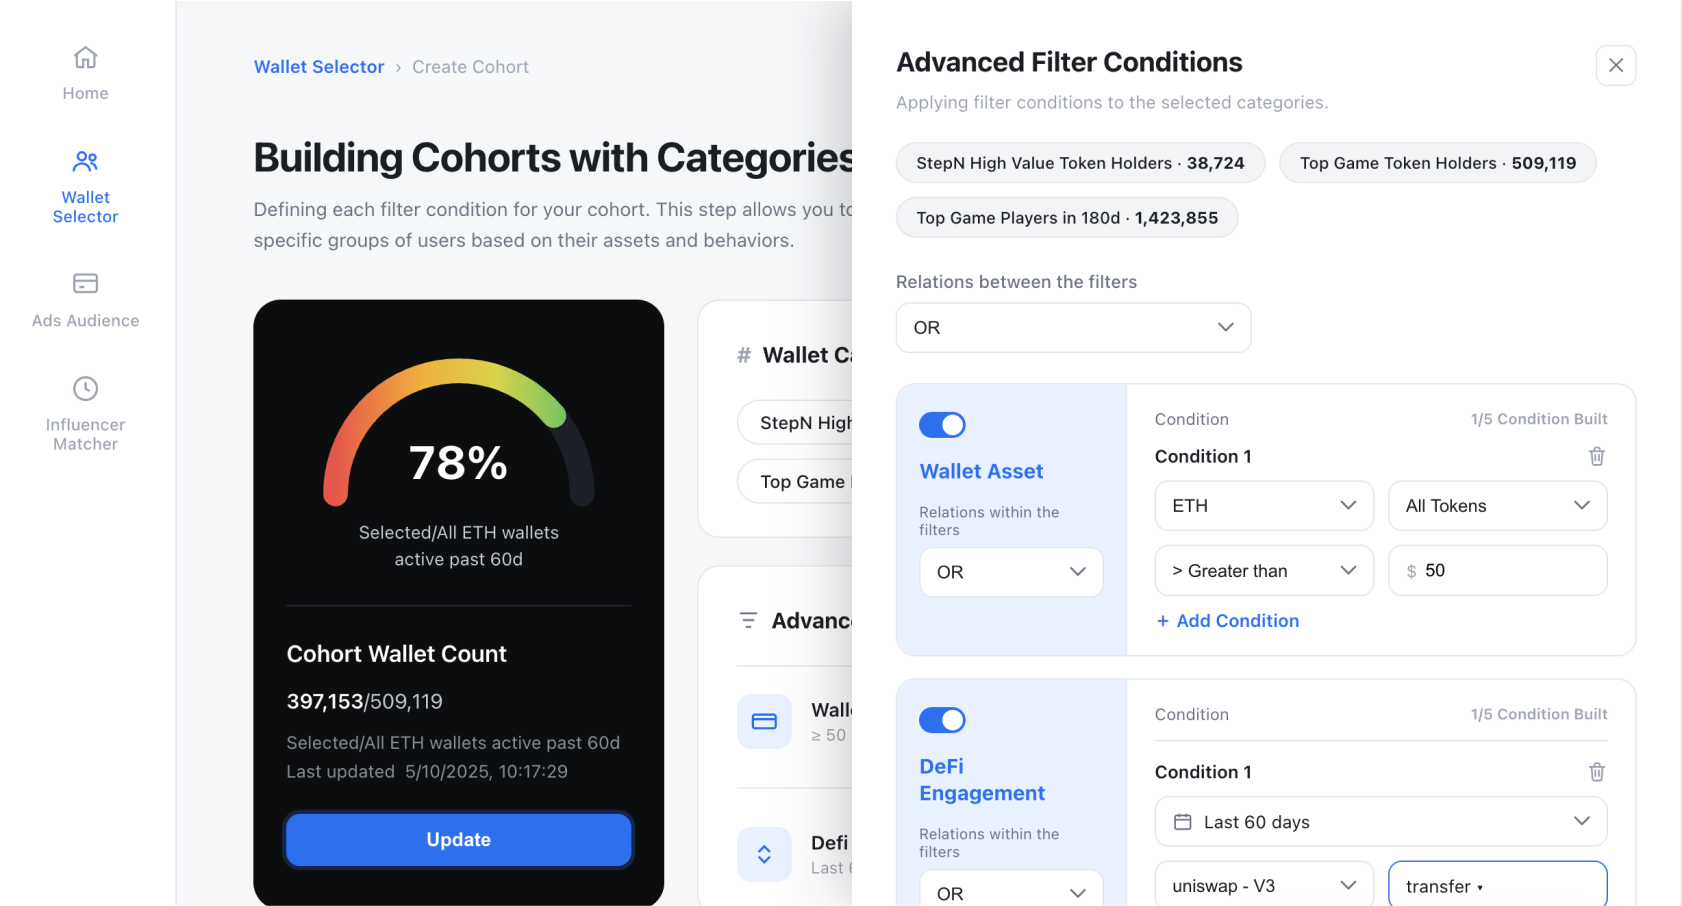
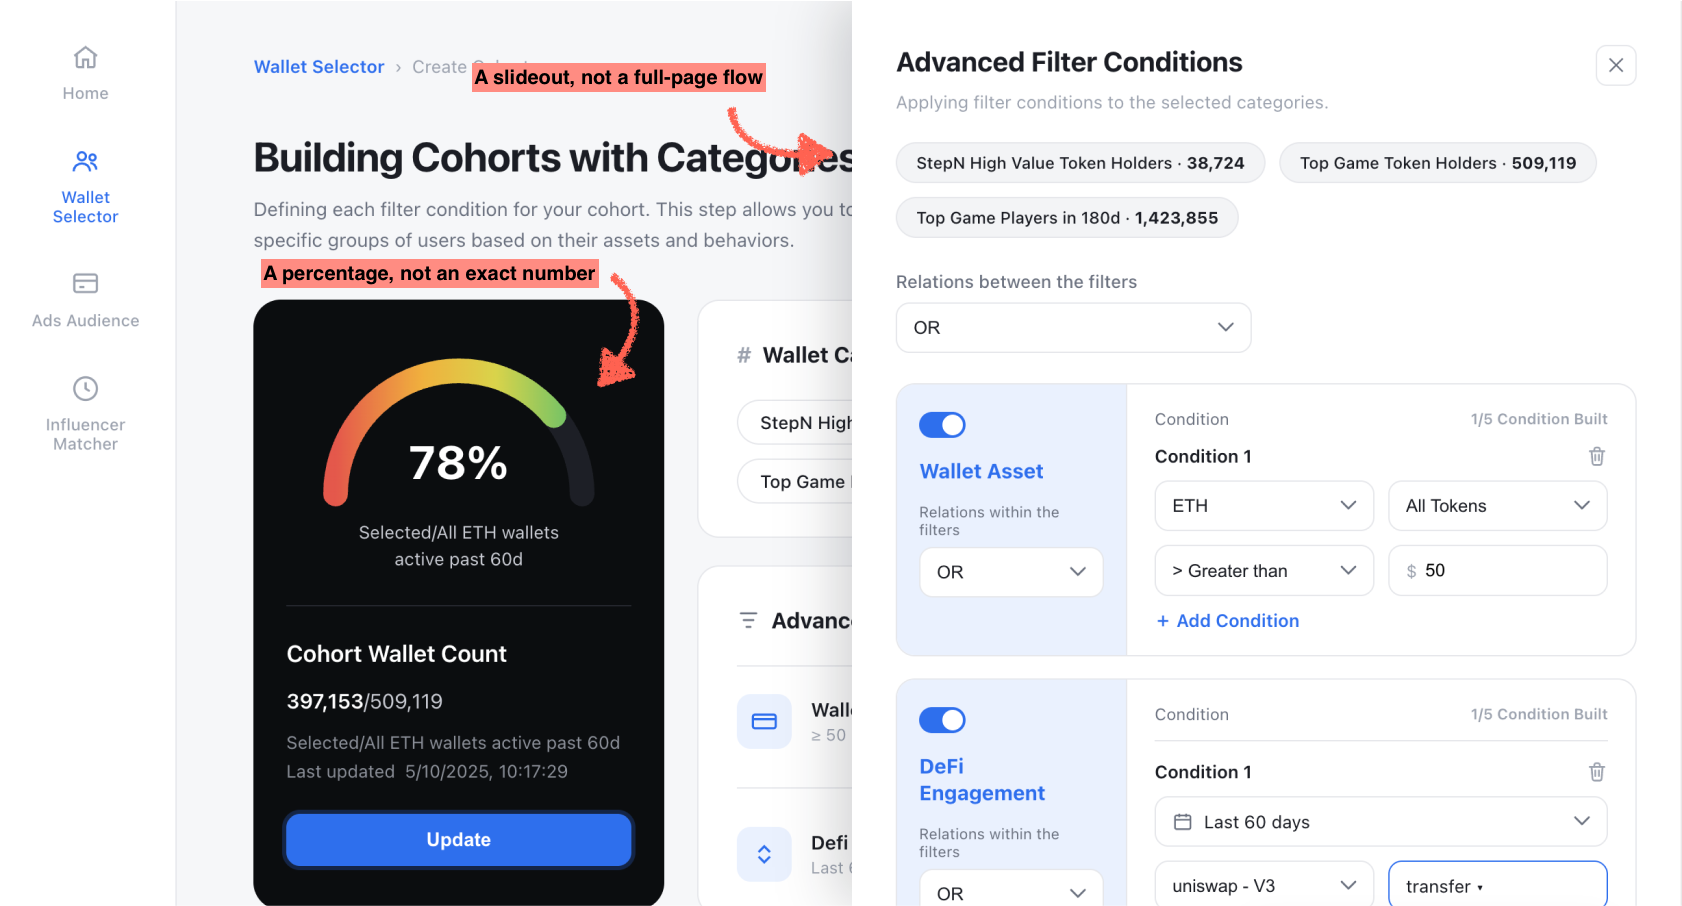
Redesign Feedback & Impact card deck, left-align More case studies heading
- Shrink desktop feedback card deck (320x304 -> 280x248, p-8 -> p-6),
  scale down typography/spacing to match, drop quote to line-clamp-4
- Rewrite section heading "Feedback" -> "Feedback & Impact"; collapse
  the Customer Review card's name/role into one line, drop the
  reviewer's real name
- Remove the click-to-pin pagination dots under the deck and the now-dead
  .is-active hover styling in globals.css (hover-only fan interaction)
- Left-align the "More case studies" heading (was center-aligned with
  the rest of that section)
- Re-export Building Chohorts.png (asset update, pre-existing working
  tree change)

Changed region(s): [[0.1546, 0.2781, 0.4019, 0.4327], [0.2782, 0.0618, 0.4946, 0.1854]]

diff --git a/app/globals.css b/app/globals.css
@@ -200,79 +200,76 @@ body {
       transform 320ms cubic-bezier(0.34, 1.4, 0.64, 1),
       box-shadow 320ms ease;
   }
-  .feedback-card-rotate:hover,
-  .feedback-card-item.is-active .feedback-card-rotate {
+  .feedback-card-rotate:hover {
     transform: rotate(0deg) scale(1.02);
   }
 
   .feedback-card-item {
-    --push: 24px;
+    --push: 20px;
     transition:
       transform 320ms cubic-bezier(0.34, 1.4, 0.64, 1),
       opacity 320ms ease;
   }
 
-  /* Pagination dots below the deck drive the same push/fade choreography
-     as hover, via an `.is-active` class instead of a real :hover state —
-     `:is(:hover, .is-active)` lets one card be "pinned" fanned-out by
-     click while every other card still responds to the mouse normally. */
-  .feedback-card-deck:has(.feedback-card-item:nth-child(1):is(:hover, .is-active)) .feedback-card-item:nth-child(2),
-  .feedback-card-deck:has(.feedback-card-item:nth-child(1):is(:hover, .is-active)) .feedback-card-item:nth-child(3),
-  .feedback-card-deck:has(.feedback-card-item:nth-child(1):is(:hover, .is-active)) .feedback-card-item:nth-child(4) {
+  /* Hovering one card pushes the rest apart and fades them, per nth-child
+     pair — hand-written for exactly 4 cards, mirrors Hero's fan-card-deck. */
+  .feedback-card-deck:has(.feedback-card-item:nth-child(1):hover) .feedback-card-item:nth-child(2),
+  .feedback-card-deck:has(.feedback-card-item:nth-child(1):hover) .feedback-card-item:nth-child(3),
+  .feedback-card-deck:has(.feedback-card-item:nth-child(1):hover) .feedback-card-item:nth-child(4) {
     opacity: 0.5;
   }
-  .feedback-card-deck:has(.feedback-card-item:nth-child(1):is(:hover, .is-active)) .feedback-card-item:nth-child(2) {
+  .feedback-card-deck:has(.feedback-card-item:nth-child(1):hover) .feedback-card-item:nth-child(2) {
     transform: translateX(var(--push));
   }
-  .feedback-card-deck:has(.feedback-card-item:nth-child(1):is(:hover, .is-active)) .feedback-card-item:nth-child(3) {
+  .feedback-card-deck:has(.feedback-card-item:nth-child(1):hover) .feedback-card-item:nth-child(3) {
     transform: translateX(calc(var(--push) * 1.6));
   }
-  .feedback-card-deck:has(.feedback-card-item:nth-child(1):is(:hover, .is-active)) .feedback-card-item:nth-child(4) {
+  .feedback-card-deck:has(.feedback-card-item:nth-child(1):hover) .feedback-card-item:nth-child(4) {
     transform: translateX(calc(var(--push) * 2.2));
   }
 
-  .feedback-card-deck:has(.feedback-card-item:nth-child(2):is(:hover, .is-active)) .feedback-card-item:nth-child(1),
-  .feedback-card-deck:has(.feedback-card-item:nth-child(2):is(:hover, .is-active)) .feedback-card-item:nth-child(3),
-  .feedback-card-deck:has(.feedback-card-item:nth-child(2):is(:hover, .is-active)) .feedback-card-item:nth-child(4) {
+  .feedback-card-deck:has(.feedback-card-item:nth-child(2):hover) .feedback-card-item:nth-child(1),
+  .feedback-card-deck:has(.feedback-card-item:nth-child(2):hover) .feedback-card-item:nth-child(3),
+  .feedback-card-deck:has(.feedback-card-item:nth-child(2):hover) .feedback-card-item:nth-child(4) {
     opacity: 0.5;
   }
-  .feedback-card-deck:has(.feedback-card-item:nth-child(2):is(:hover, .is-active)) .feedback-card-item:nth-child(1) {
+  .feedback-card-deck:has(.feedback-card-item:nth-child(2):hover) .feedback-card-item:nth-child(1) {
     transform: translateX(calc(var(--push) * -1));
   }
-  .feedback-card-deck:has(.feedback-card-item:nth-child(2):is(:hover, .is-active)) .feedback-card-item:nth-child(3) {
+  .feedback-card-deck:has(.feedback-card-item:nth-child(2):hover) .feedback-card-item:nth-child(3) {
     transform: translateX(var(--push));
   }
-  .feedback-card-deck:has(.feedback-card-item:nth-child(2):is(:hover, .is-active)) .feedback-card-item:nth-child(4) {
+  .feedback-card-deck:has(.feedback-card-item:nth-child(2):hover) .feedback-card-item:nth-child(4) {
     transform: translateX(calc(var(--push) * 1.6));
   }
 
-  .feedback-card-deck:has(.feedback-card-item:nth-child(3):is(:hover, .is-active)) .feedback-card-item:nth-child(1),
-  .feedback-card-deck:has(.feedback-card-item:nth-child(3):is(:hover, .is-active)) .feedback-card-item:nth-child(2),
-  .feedback-card-deck:has(.feedback-card-item:nth-child(3):is(:hover, .is-active)) .feedback-card-item:nth-child(4) {
+  .feedback-card-deck:has(.feedback-card-item:nth-child(3):hover) .feedback-card-item:nth-child(1),
+  .feedback-card-deck:has(.feedback-card-item:nth-child(3):hover) .feedback-card-item:nth-child(2),
+  .feedback-card-deck:has(.feedback-card-item:nth-child(3):hover) .feedback-card-item:nth-child(4) {
     opacity: 0.5;
   }
-  .feedback-card-deck:has(.feedback-card-item:nth-child(3):is(:hover, .is-active)) .feedback-card-item:nth-child(1) {
+  .feedback-card-deck:has(.feedback-card-item:nth-child(3):hover) .feedback-card-item:nth-child(1) {
     transform: translateX(calc(var(--push) * -1.6));
   }
-  .feedback-card-deck:has(.feedback-card-item:nth-child(3):is(:hover, .is-active)) .feedback-card-item:nth-child(2) {
+  .feedback-card-deck:has(.feedback-card-item:nth-child(3):hover) .feedback-card-item:nth-child(2) {
     transform: translateX(calc(var(--push) * -1));
   }
-  .feedback-card-deck:has(.feedback-card-item:nth-child(3):is(:hover, .is-active)) .feedback-card-item:nth-child(4) {
+  .feedback-card-deck:has(.feedback-card-item:nth-child(3):hover) .feedback-card-item:nth-child(4) {
     transform: translateX(var(--push));
   }
 
-  .feedback-card-deck:has(.feedback-card-item:nth-child(4):is(:hover, .is-active)) .feedback-card-item:nth-child(1),
-  .feedback-card-deck:has(.feedback-card-item:nth-child(4):is(:hover, .is-active)) .feedback-card-item:nth-child(2),
-  .feedback-card-deck:has(.feedback-card-item:nth-child(4):is(:hover, .is-active)) .feedback-card-item:nth-child(3) {
+  .feedback-card-deck:has(.feedback-card-item:nth-child(4):hover) .feedback-card-item:nth-child(1),
+  .feedback-card-deck:has(.feedback-card-item:nth-child(4):hover) .feedback-card-item:nth-child(2),
+  .feedback-card-deck:has(.feedback-card-item:nth-child(4):hover) .feedback-card-item:nth-child(3) {
     opacity: 0.5;
   }
-  .feedback-card-deck:has(.feedback-card-item:nth-child(4):is(:hover, .is-active)) .feedback-card-item:nth-child(1) {
+  .feedback-card-deck:has(.feedback-card-item:nth-child(4):hover) .feedback-card-item:nth-child(1) {
     transform: translateX(calc(var(--push) * -2.2));
   }
-  .feedback-card-deck:has(.feedback-card-item:nth-child(4):is(:hover, .is-active)) .feedback-card-item:nth-child(2) {
+  .feedback-card-deck:has(.feedback-card-item:nth-child(4):hover) .feedback-card-item:nth-child(2) {
     transform: translateX(calc(var(--push) * -1.6));
   }
-  .feedback-card-deck:has(.feedback-card-item:nth-child(4):is(:hover, .is-active)) .feedback-card-item:nth-child(3) {
+  .feedback-card-deck:has(.feedback-card-item:nth-child(4):hover) .feedback-card-item:nth-child(3) {
     transform: translateX(calc(var(--push) * -1));
   }
 

diff --git a/components/case-study/FeedbackStack.tsx b/components/case-study/FeedbackStack.tsx
@@ -1,7 +1,4 @@
-"use client";
-
 import Image from "next/image";
-import { useState } from "react";
 import type { CSSProperties } from "react";
 import type { FeedbackCard } from "@/data/caseStudies";
 import { renderInline } from "./CaseStudyBlock";
@@ -18,40 +15,39 @@ function FeedbackCardContent({ card }: { card: FeedbackCard }) {
   return (
     <>
       {card.photo && (
-        <div className="absolute -top-4 -right-4 h-14 w-14 overflow-hidden rounded-full ring-4 ring-white shadow-md">
+        <div className="absolute -top-3 -right-3 h-12 w-12 overflow-hidden rounded-full ring-4 ring-white shadow-md">
           <Image src={card.photo} alt={card.photoAlt ?? ""} fill className="object-cover" />
         </div>
       )}
       <span
-        className={`mb-3 inline-flex w-fit items-center rounded-full px-3 py-1 font-serif text-[11px] font-semibold ${
+        className={`mb-2 inline-flex w-fit items-center rounded-full px-3 py-1 font-serif text-[10px] font-semibold ${
           isTestimonial ? "bg-card-sand text-card-sand-text" : "bg-card-salmon text-card-salmon-text"
         }`}
       >
         {isTestimonial ? "Customer Review" : "Investment"}
       </span>
       {isTestimonial ? (
-        <p className="mb-3 text-sm tracking-wider text-[#f5a623]" aria-hidden="true">
+        <p className="mb-2 text-xs tracking-wider text-[#f5a623]" aria-hidden="true">
           {"★".repeat(card.rating ?? 0)}
         </p>
       ) : (
         card.eyebrow && (
-          <p className={`mb-2 text-caption text-fg-secondary ${card.photo ? "pr-14" : ""}`}>{card.eyebrow}</p>
+          <p className={`mb-1.5 text-caption text-fg-secondary ${card.photo ? "pr-12" : ""}`}>{card.eyebrow}</p>
         )
       )}
       {card.headline && (
-        <p className={`mb-3 font-source-sans-pro text-[20px] leading-[1.1] font-bold text-fg ${card.photo ? "pr-10" : ""}`}>
+        <p className={`mb-2 font-source-sans-pro text-[17px] leading-[1.15] font-bold text-fg ${card.photo ? "pr-9" : ""}`}>
           {renderInline(card.headline)}
         </p>
       )}
       {/* Investment (press-mention) cards drop the quote in this design — only
           Customer Review cards show one. */}
-      {card.quote && isTestimonial && <p className="mb-4 line-clamp-6 flex-1 text-caption text-fg">{renderInline(card.quote)}</p>}
-      <div className="mt-auto pt-4">
+      {card.quote && isTestimonial && <p className="mb-3 line-clamp-4 flex-1 text-caption text-fg">{renderInline(card.quote)}</p>}
+      <div className="mt-auto pt-3">
         {isTestimonial ? (
-          <>
-            <p className="text-caption font-semibold text-fg">{card.name}</p>
-            <p className="text-caption text-fg-secondary">{card.role}</p>
-          </>
+          <p className="text-caption text-fg">
+            <span className="font-semibold">{card.name}</span> <span className="text-fg-secondary">{card.role}</span>
+          </p>
         ) : (
           <div className="flex items-center justify-between">
             <p className="text-caption text-fg-secondary">Date: {card.date}</p>
@@ -84,11 +80,6 @@ function FeedbackCardContent({ card }: { card: FeedbackCard }) {
  * plain stacked list.
  */
 export default function FeedbackStack({ cards }: { cards: FeedbackCard[] }) {
-  // Which card is "pinned" fanned-out via the pagination dots below the
-  // deck (independent of :hover, which keeps working on its own — see
-  // .is-active in globals.css). null = nothing pinned, deck rests flat.
-  const [activeIndex, setActiveIndex] = useState<number | null>(null);
-
   if (cards.length === 0) return null;
 
   return (
@@ -105,17 +96,15 @@ export default function FeedbackStack({ cards }: { cards: FeedbackCard[] }) {
       {/* Desktop: the fanned deck. Breaks out of the narrow article column
           (mirrors the old horizontal-scroll version's full-bleed trick) so
           the wider gaps between cards have room without cramming. */}
-      <div className="feedback-card-deck relative mr-[calc(-50vw+50%)] hidden h-[344px] w-full items-center md:flex">
+      <div className="feedback-card-deck relative mr-[calc(-50vw+50%)] hidden h-[288px] w-full items-center md:flex">
         {cards.map((card, index) => (
           <div
             key={index}
-            className={`feedback-card-item relative flex h-[304px] w-[320px] flex-shrink-0 items-center justify-center -mr-2 last:mr-0 hover:z-10 ${
-              index === activeIndex ? "is-active" : ""
-            }`}
-            style={{ zIndex: index === activeIndex ? cards.length + 1 : index + 1 }}
+            className="feedback-card-item relative flex h-[248px] w-[280px] flex-shrink-0 items-center justify-center -mr-2 last:mr-0 hover:z-10"
+            style={{ zIndex: index + 1 }}
           >
             <div
-              className="feedback-card-rotate relative flex h-full w-full flex-col overflow-hidden rounded-2xl bg-white p-8 shadow-hover"
+              className="feedback-card-rotate relative flex h-full w-full flex-col overflow-hidden rounded-2xl bg-white p-6 shadow-hover"
               style={{ "--rotate": `${ROTATIONS[index % ROTATIONS.length]}deg` } as CSSProperties}
             >
               <FeedbackCardContent card={card} />
@@ -123,27 +112,6 @@ export default function FeedbackStack({ cards }: { cards: FeedbackCard[] }) {
           </div>
         ))}
       </div>
-
-      {/* Pagination dots — click one to pin that card fanned-out to the
-          front, same treatment :hover already gives it. Desktop only,
-          mirrors the deck's own md:flex visibility (mobile's flat list
-          has nothing to paginate). */}
-      {cards.length > 1 && (
-        <div className="mt-5 hidden items-center justify-center gap-2 md:flex">
-          {cards.map((_, index) => (
-            <button
-              key={index}
-              type="button"
-              onClick={() => setActiveIndex((current) => (current === index ? null : index))}
-              aria-label={`Bring card ${index + 1} to front`}
-              aria-current={activeIndex === index}
-              className={`h-1.5 w-1.5 rounded-full transition-colors duration-300 ${
-                activeIndex === index ? "bg-available" : "bg-border hover:bg-fg-secondary/50"
-              }`}
-            />
-          ))}
-        </div>
-      )}
     </div>
   );
 }

diff --git a/data/caseStudies.ts b/data/caseStudies.ts
@@ -333,7 +333,7 @@ export const caseStudies: CaseStudy[] = [
       {
         id: "feedback-impact",
         navLabel: "Outcomes",
-        heading: "Feedback",
+        heading: "Feedback & Impact",
         blocks: [
           {
             type: "paragraph",
@@ -347,7 +347,7 @@ export const caseStudies: CaseStudy[] = [
                 quote:
                   "Growing3 is a tool that has significantly benefited my work, providing a **seamless overall product experience, especially in terms of user experience**, which left a strong impression on me!",
                 name: "Project Manager",
-                role: "Vincent@PrismX",
+                role: "@PrismX",
               },
               {
                 eyebrow: "500 Global",

diff --git a/components/case-study/MoreCaseStudies.tsx b/components/case-study/MoreCaseStudies.tsx
@@ -58,7 +58,7 @@ export default function MoreCaseStudies({ items }: { items: MoreCaseStudyItem[] 
 
   return (
     <section id="next" className="mt-20 mb-20 scroll-mt-24 rounded-2xl bg-white p-8 text-center md:rounded-[20px] md:p-12">
-      <h3 className="mb-8 font-serif text-h2 tracking-[-0.02em] text-fg">More case studies</h3>
+      <h3 className="mb-8 text-left font-serif text-h2 tracking-[-0.02em] text-fg">More case studies</h3>
 
       <div
         onWheel={handleWheel}
